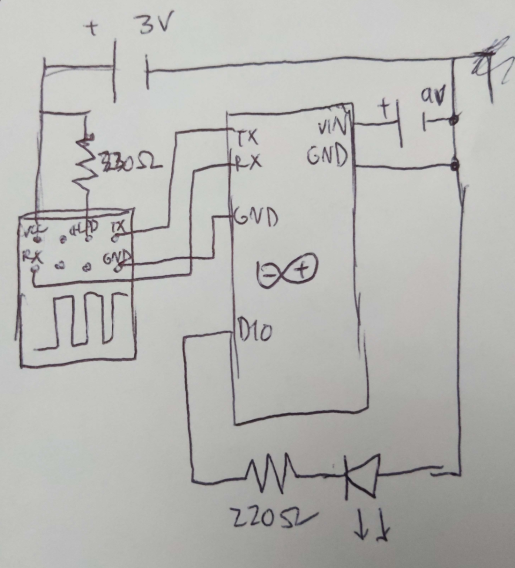
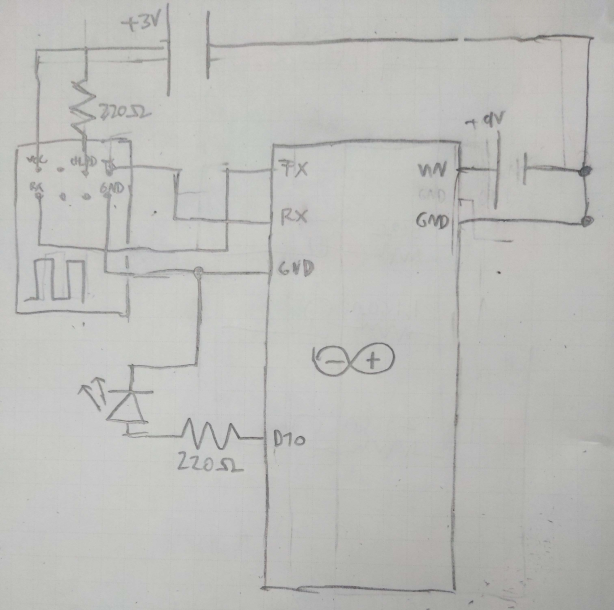
Update schematic

Changed region(s): [[0.0, 0.0, 1.0, 1.0]]

diff --git a/README.md b/README.md
@@ -1,11 +1,11 @@
 # ESP Blink
 
 Lets you turn an LED on or off with your phone. Utilizes an ESP-01 WiFi module in serial communication with an Arduino Nano.
-Power it up, connect to ESP WiFi network(password is `password`), [open its panel](http://192.168.4.1)
+Power it up, connect to ESP WiFi network (password is `password`), [open its panel](http://192.168.4.1).
 
 The `WifiAccessPoint` and `SerialBlink` sketches are loaded on the [ESP](https://github.com/esp8266/arduino) and Arduino, respectively.
 
-Badly drawn schematic (oops, flip the RX and TX actually):
+Badly drawn schematic:
 
 ![Schematic](schematic.png)
 
